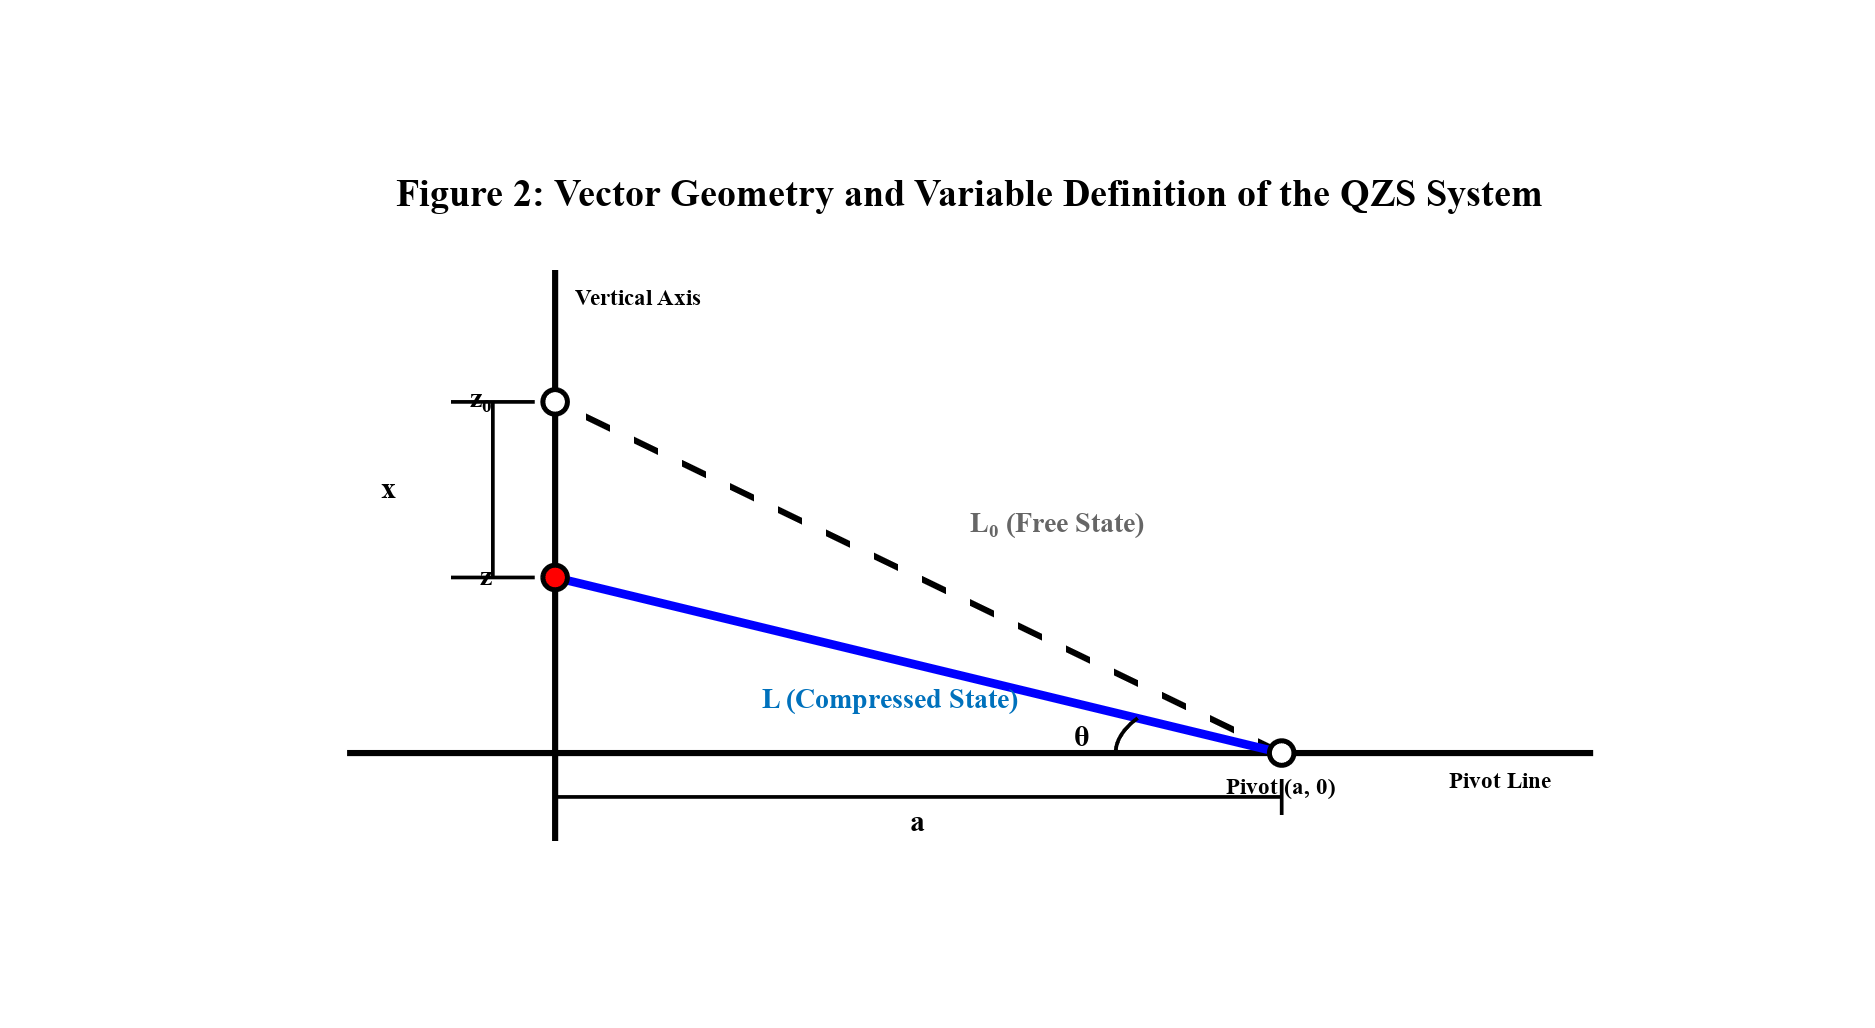
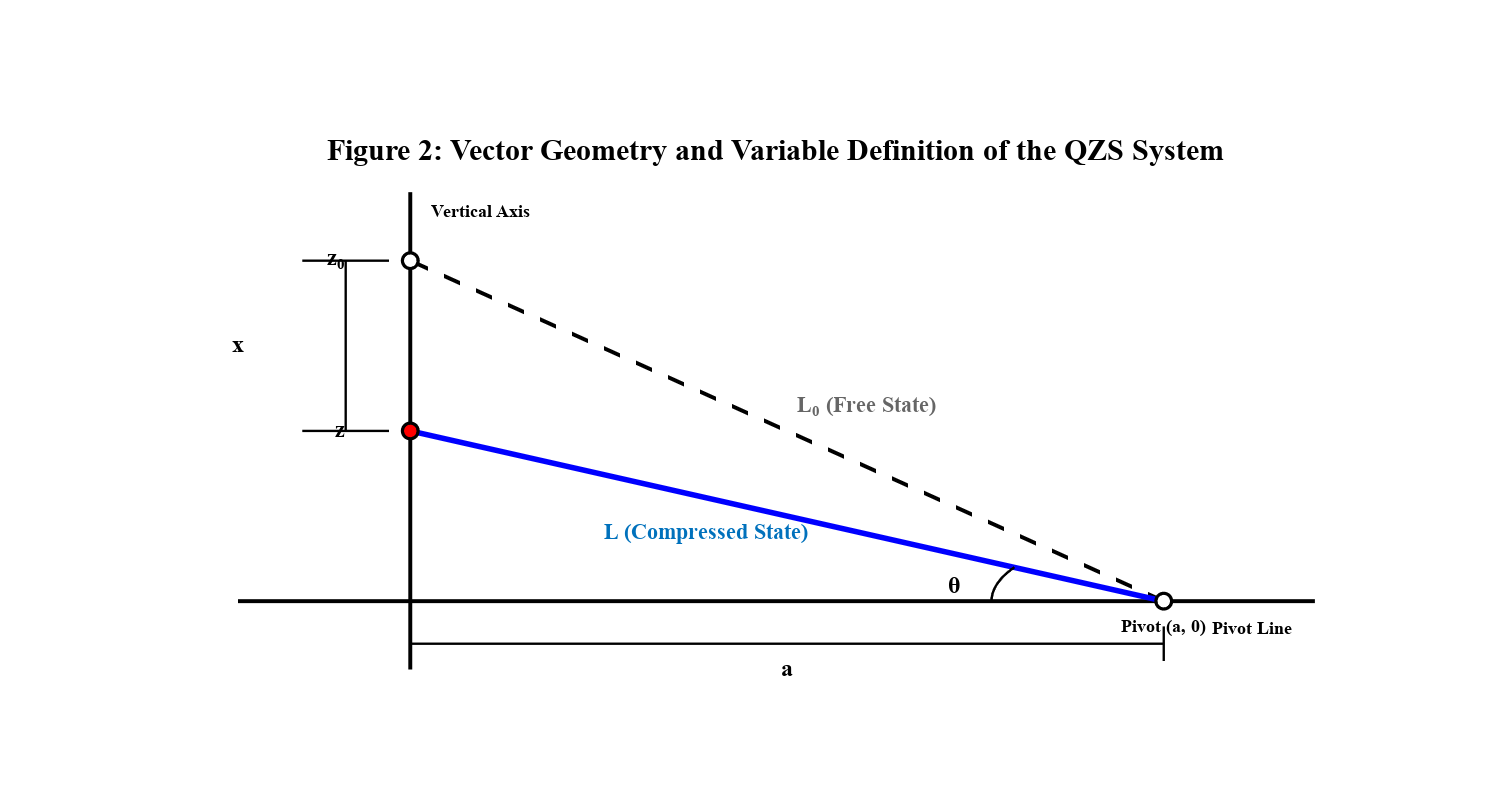
Zoom in Figure 2 vector geometry schematic and adjust label placement

diff --git a/qzs_fig2_vector.m b/qzs_fig2_vector.m
@@ -14,8 +14,8 @@ z0_val = 4.0;
 z_val = 2.0;
 
 % Draw main axes lines
-plot([-1, 5], [0, 0], 'k-', 'LineWidth', 2.5); % Horizontal pivot axis
-plot([0, 0], [-1, 5.5], 'k-', 'LineWidth', 2.5); % Vertical guide axis
+plot([-0.8, 4.2], [0, 0], 'k-', 'LineWidth', 2.5); % Horizontal pivot axis
+plot([0, 0], [-0.8, 4.8], 'k-', 'LineWidth', 2.5); % Vertical guide axis
 
 % Draw free state (dashed line)
 plot([a_val, 0], [0, z0_val], 'k--', 'LineWidth', 2.5);
@@ -43,21 +43,21 @@ t_theta = linspace(pi, pi - atan2(z_val, a_val), 30);
 plot(a_val + 0.8 * cos(t_theta), 0.8 * sin(t_theta), 'k-', 'LineWidth', 1.5);
 
 % Text Labels (Huge, bold, Times New Roman - shifted to prevent overlapping)
-text(2.0, 2.6, 'L_0 (Free State)', 'FontSize', 22, 'FontWeight', 'bold', 'Color', [0.4, 0.4, 0.4]);
-text(1.0, 0.6, 'L (Compressed State)', 'FontSize', 22, 'FontWeight', 'bold', 'Color', [0, 0.447, 0.741]);
+text(1.8, 2.3, 'L_0 (Free State)', 'FontSize', 22, 'FontWeight', 'bold', 'Color', [0.4, 0.4, 0.4]);
+text(0.9, 0.8, 'L (Compressed State)', 'FontSize', 22, 'FontWeight', 'bold', 'Color', [0, 0.447, 0.741]);
 text(-0.8, (z_val + z0_val)/2, 'x', 'FontSize', 24, 'FontWeight', 'bold', 'HorizontalAlignment', 'center');
 text(a_val/2, -0.8, 'a', 'FontSize', 24, 'FontWeight', 'bold', 'HorizontalAlignment', 'center');
 text(2.5, 0.2, '\theta', 'FontSize', 24, 'FontWeight', 'bold');
 
-text(a_val, -0.4, 'Pivot (a, 0)', 'FontSize', 18, 'FontWeight', 'bold', 'HorizontalAlignment', 'center');
+text(a_val, -0.3, 'Pivot (a, 0)', 'FontSize', 18, 'FontWeight', 'bold', 'HorizontalAlignment', 'center');
 text(-0.3, z0_val, 'z_0', 'FontSize', 22, 'FontWeight', 'bold', 'HorizontalAlignment', 'right');
 text(-0.3, z_val, 'z', 'FontSize', 22, 'FontWeight', 'bold', 'HorizontalAlignment', 'right');
-text(0.1, 5.2, 'Vertical Axis', 'FontSize', 18, 'FontWeight', 'bold');
-text(4.8, -0.3, 'Pivot Line', 'FontSize', 18, 'FontWeight', 'bold', 'HorizontalAlignment', 'right');
+text(0.1, 4.6, 'Vertical Axis', 'FontSize', 18, 'FontWeight', 'bold');
+text(4.1, -0.3, 'Pivot Line', 'FontSize', 18, 'FontWeight', 'bold', 'HorizontalAlignment', 'right');
 
-% Limits and format
-xlim([-1.5, 5.5]);
-ylim([-1.5, 6.0]);
+% Limits and format (Zoomed in)
+xlim([-1.0, 4.4]);
+ylim([-1.0, 5.0]);
 axis off;
 
 title('Figure 2: Vector Geometry and Variable Definition of the QZS System', 'FontSize', 20, 'FontWeight', 'bold');